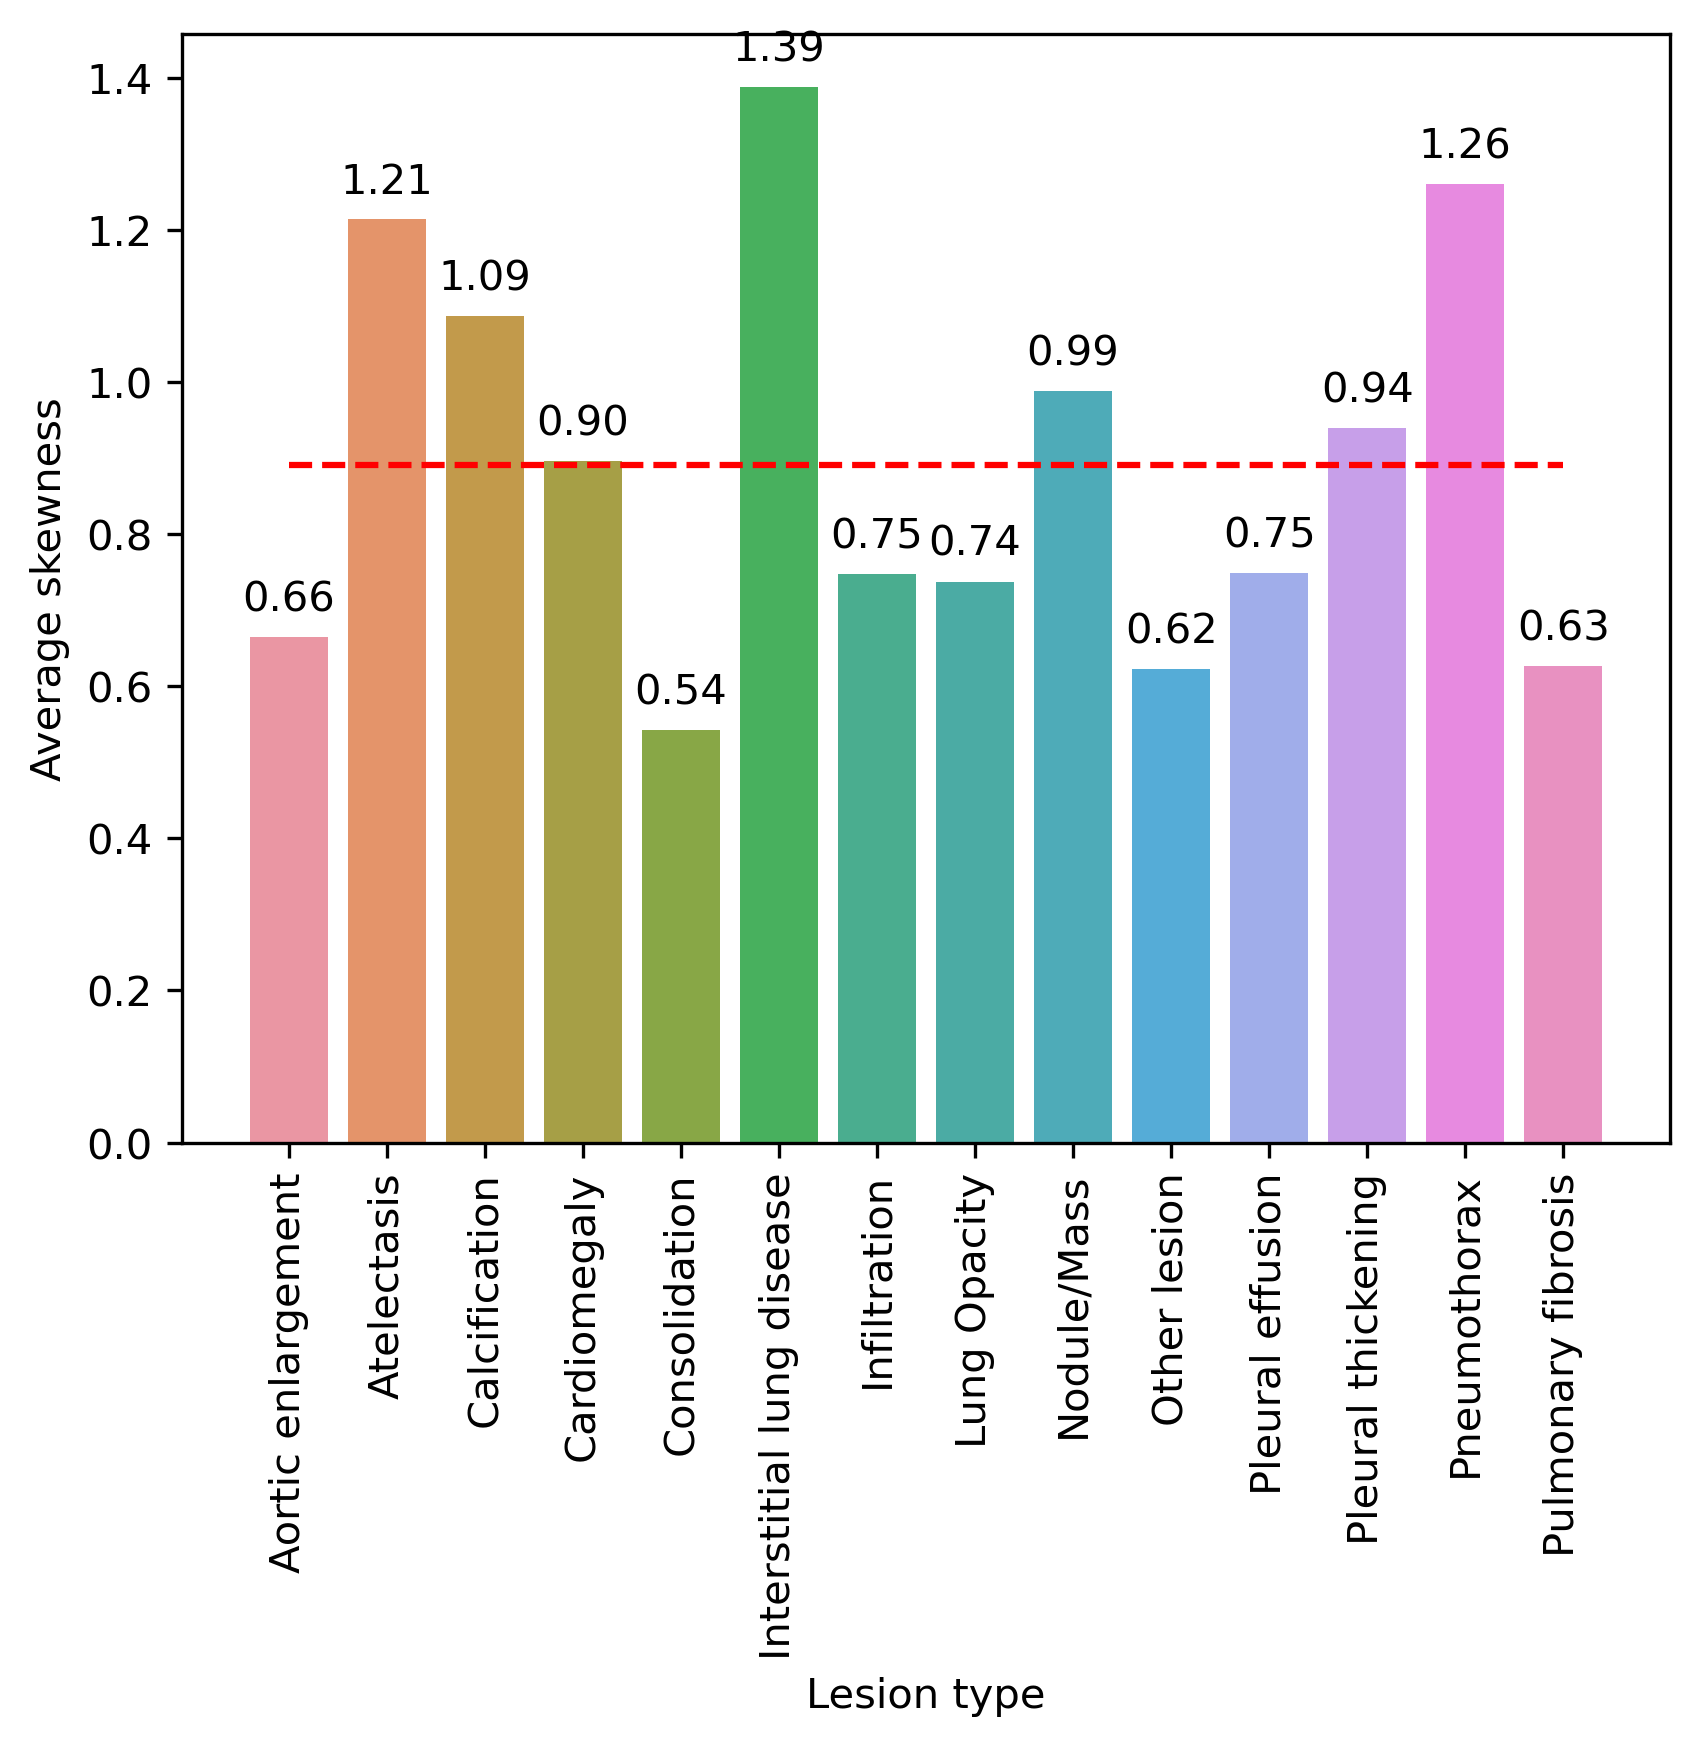
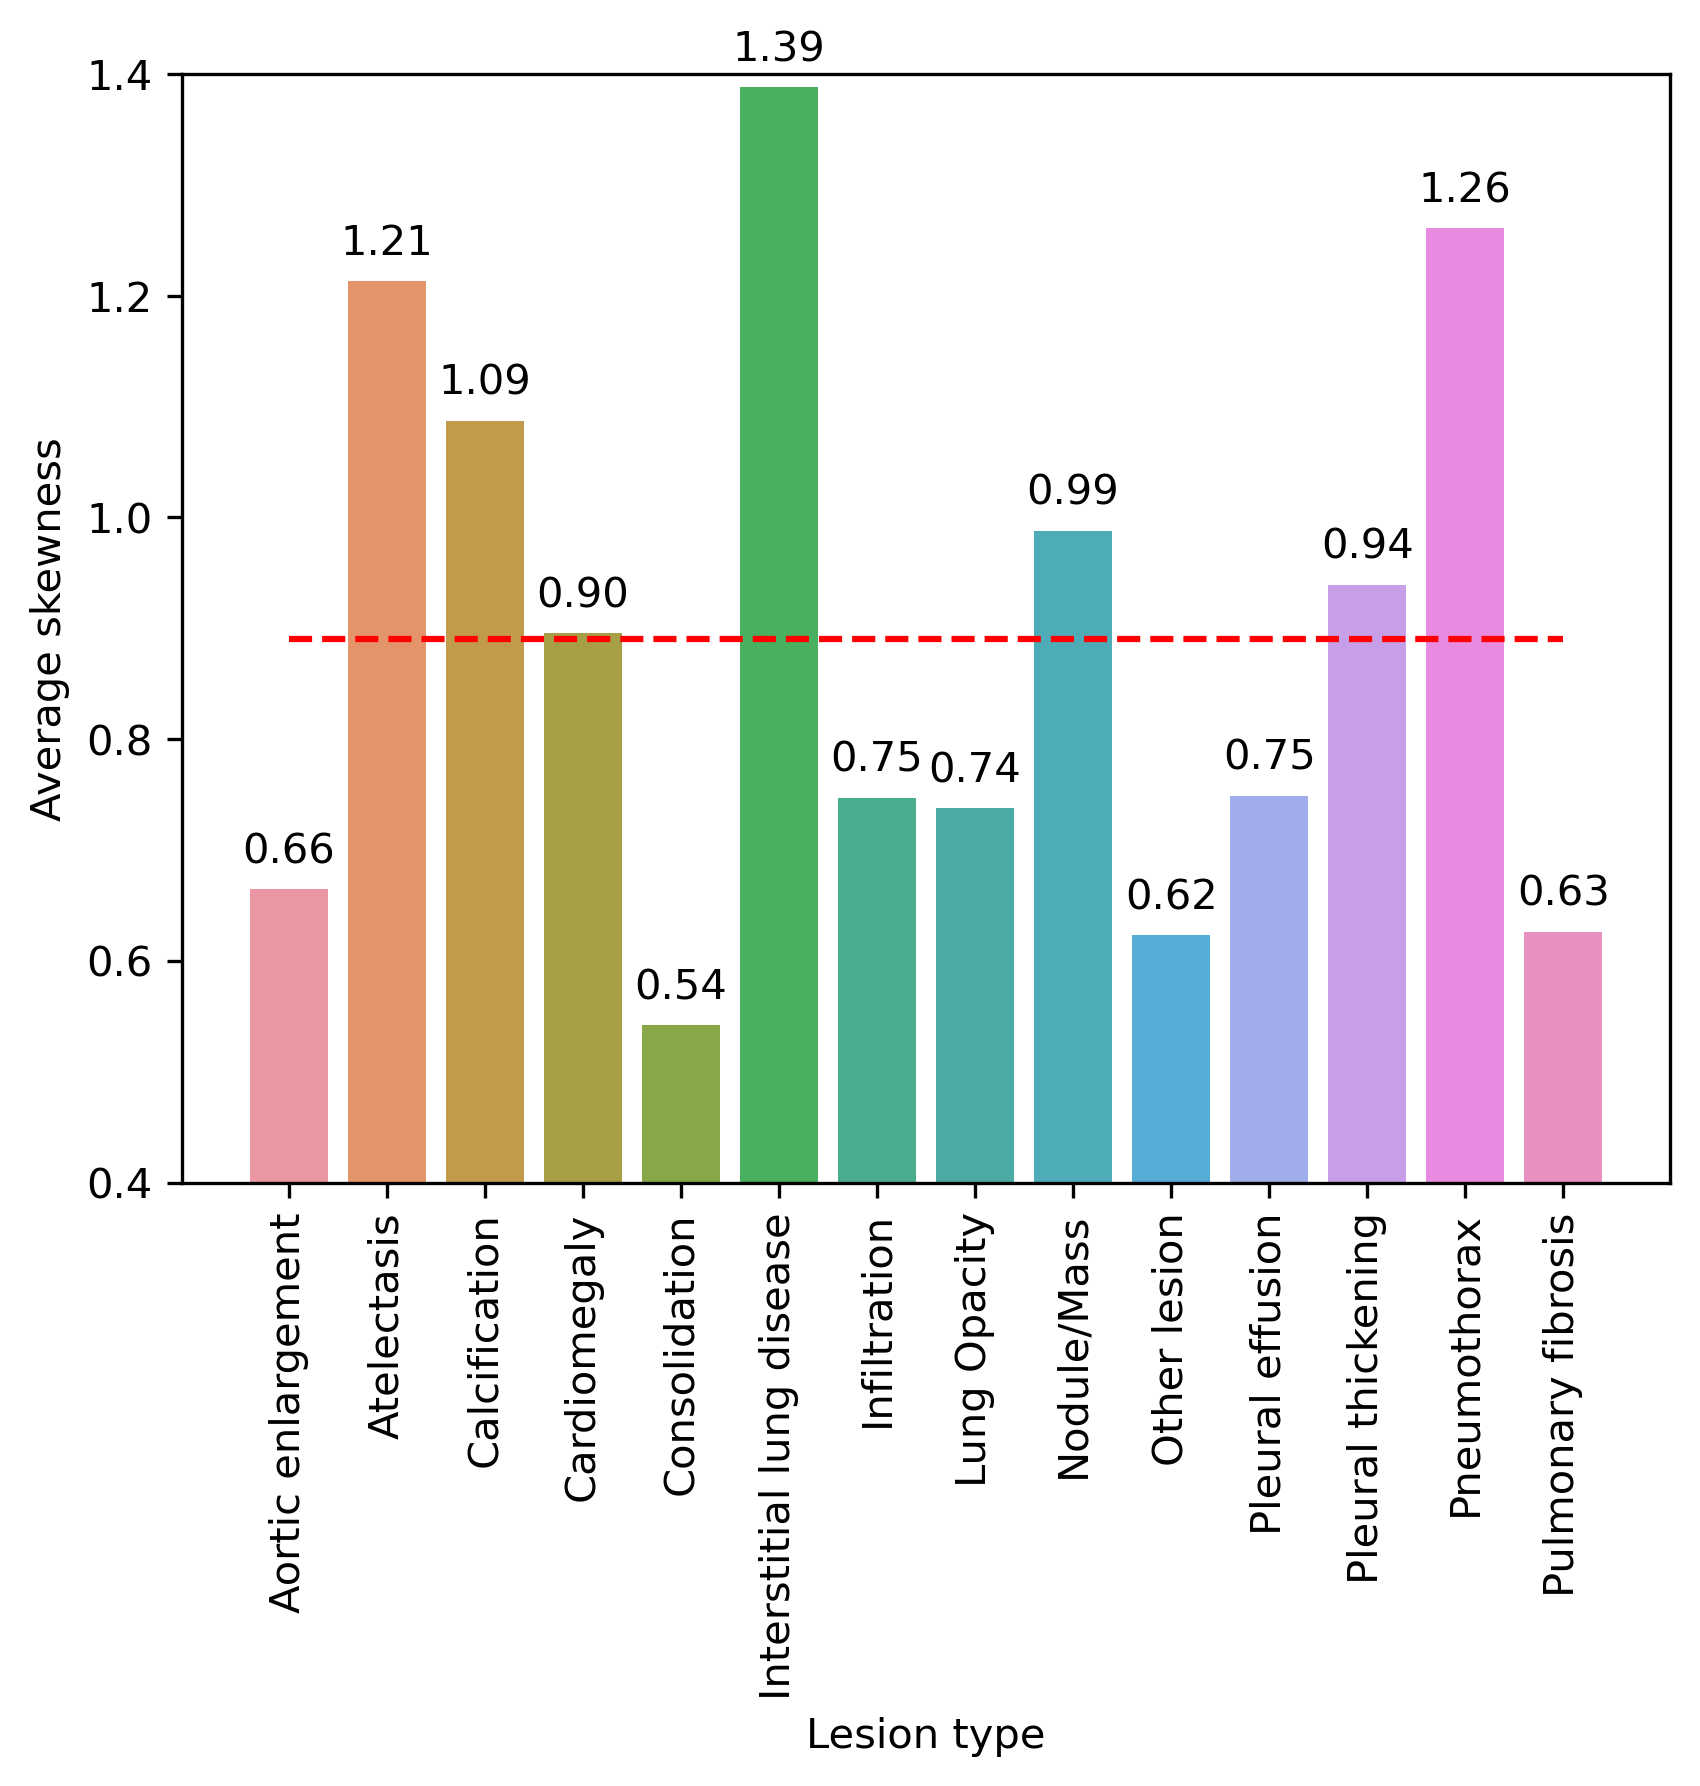
fjs

diff --git a/utils/ct_cls_plots.py b/utils/ct_cls_plots.py
@@ -83,10 +83,16 @@ def vis_auroc():
     
     fig, axes = plt.subplots(1,2, constrained_layout=True, figsize=(10,5))
     color_name =['r','b','k','y','c','g','m'] #color ref: https://www.cnblogs.com/darkknightzh/p/6117528.html
+
+    axins = axes[0].inset_axes((0.2, 0.5, 0.4, 0.4))
+    axins.grid(b=True, ls=':')
     for i in range(len(color_name)):
         fpr, tpr, threshold = roc_curve(np.array(gt_pn[i]), np.array(pd_pn[i]))
         auc_score = auc(fpr, tpr)
         axes[0].plot(fpr, tpr, c = color_name[i], ls = '--', label = u'{}-{:.4f}'.format(model_names[i],auc_score))
+        idx_s = np.where(tpr>0.8)[0][0]
+        idx_e = np.where(fpr<0.2)[0][-1]
+        axins.plot(fpr[idx_s:idx_e], tpr[idx_s:idx_e], c = color_name[i], ls = '--')
 
     axes[0].plot((0, 1), (0, 1), c = '#808080', lw = 1, ls = '--', alpha = 0.7)
     axes[0].set_xlim((-0.01, 1.02))
@@ -99,10 +105,15 @@ def vis_auroc():
     axes[0].legend(loc='lower right')
     axes[0].set_title('Pneumonia')
 
+    axins = axes[1].inset_axes((0.2, 0.5, 0.4, 0.4))
+    axins.grid(b=True, ls=':')
     for i in range(len(color_name)):
         fpr, tpr, threshold = roc_curve(gt_co[i], pd_co[i])
         auc_score = auc(fpr, tpr)
         axes[1].plot(fpr, tpr, c = color_name[i], ls = '--', label = u'{}-{:.4f}'.format(model_names[i],auc_score))
+        idx_s = np.where(tpr>0.8)[0][0]
+        idx_e = np.where(fpr<0.2)[0][-1]
+        axins.plot(fpr[idx_s:idx_e], tpr[idx_s:idx_e], c = color_name[i], ls = '--')
 
     axes[1].plot((0, 1), (0, 1), c = '#808080', lw = 1, ls = '--', alpha = 0.7)
     axes[1].set_xlim((-0.01, 1.02))
@@ -114,6 +125,10 @@ def vis_auroc():
     axes[1].grid(b=True, ls=':')
     axes[1].legend(loc='lower right')
     axes[1].set_title('COVID19')
+
+    #axins = axes[1].inset_axes((0.2, 0.5, 0.4, 0.4))
+    #axins.plot(fpr, tpr, c = color_name[i], ls = '--', label = u'{}-{:.4f}'.format(model_names[i],auc_score))
+    #axins.axis('off')
 
     fig.savefig('/data/pycode/SFConv/imgs/CT_ROCCurve.png', dpi=300, bbox_inches='tight')
 
@@ -191,8 +206,8 @@ def vis_weight():
     fig.savefig('/data/pycode/SFConv/imgs/CT_weight.png', dpi=300, bbox_inches='tight')
 
 def main():
-    #vis_auroc()
-    vis_weight()
+    vis_auroc()
+    #vis_weight()
 
 if __name__ == '__main__':
     main()

diff --git a/utils/medimg_plot.py b/utils/medimg_plot.py
@@ -1,0 +1,63 @@
+# encoding: utf-8
+"""
+Training implementation of object detection for 2D chest x-ray
+Author: Jason.Fang
+Update time: 06/09/2021
+"""
+import re
+import sys
+import os
+import cv2
+import time
+import argparse
+import numpy as np
+import pandas as pd
+import torch
+import math
+import torch.nn as nn
+from torch.optim import lr_scheduler
+import torch.optim as optim
+import torchvision
+from torchvision.models.detection import FasterRCNN
+from torchvision.models.detection.rpn import AnchorGenerator
+import torchvision.transforms as transforms
+from tensorboardX import SummaryWriter
+from thop import profile
+from sklearn.metrics import roc_auc_score
+import matplotlib.pyplot as plt
+from PIL import Image
+import matplotlib.patches as patches
+import cv2
+import seaborn as sns
+import torchvision.datasets as dset
+import matplotlib.image as mpimg
+from sklearn.metrics import roc_auc_score
+from sklearn.metrics import roc_curve, auc
+from sklearn.metrics import confusion_matrix
+#sys.path.append("..") 
+
+def vis_med_img():
+    fig, axes = plt.subplots(1,3,constrained_layout=True, figsize=(9,3))
+
+    fundus = Image.open('/data/pycode/SFConv/imgs/ctpred/fundus.jpg')
+    axes[0].imshow(fundus, aspect="auto")
+    axes[0].axis('off')
+    axes[0].set_title('Fundus')
+
+    cxr = Image.open('/data/pycode/SFConv/imgs/ctpred/cxr.jpeg')
+    axes[1].imshow(cxr,aspect="auto")
+    axes[1].axis('off')
+    axes[1].set_title('Chest X-ray')
+
+    ct = Image.open('/data/pycode/SFConv/imgs/ctpred/ct.png')
+    axes[2].imshow(ct,cmap='gray',aspect="auto")
+    axes[2].axis('off')
+    axes[2].set_title('CT')
+
+    fig.savefig('/data/pycode/SFConv/imgs/med_img.png', dpi=300, bbox_inches='tight')
+
+def main():
+    vis_med_img()
+
+if __name__ == '__main__':
+    main()

diff --git a/dsts/plot_cxr_hist.py b/dsts/plot_cxr_hist.py
@@ -174,6 +174,8 @@ def vis_cxr_lesion():
                    xytext = (0, 9), 
                    textcoords = 'offset points')
     ax.hlines(np.mean(skews_avg), 0, 13, colors = "r", linestyles = "dashed")
+    ax.set_ylim(0.4,1.4)
+    #ax.set_yticklabels(['0.0', '5.0', '10.0', '15.0'])
     fig.savefig('/data/pycode/SFConv/imgs/lesion_dis.png', dpi=300, bbox_inches='tight')
 
 def main():
